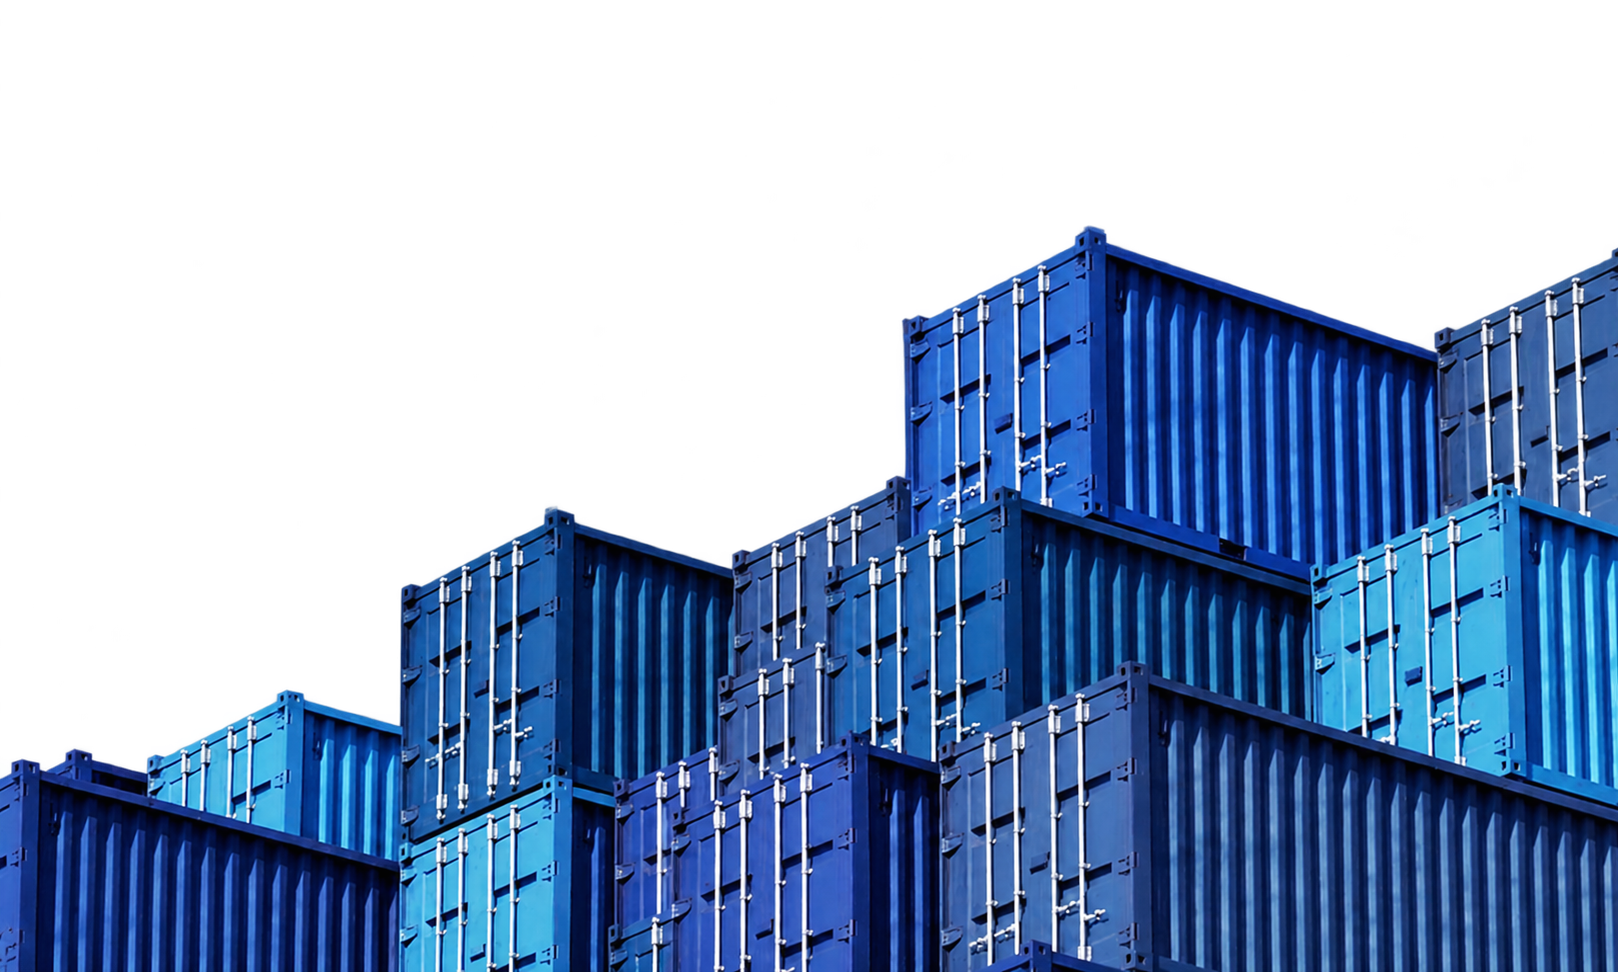
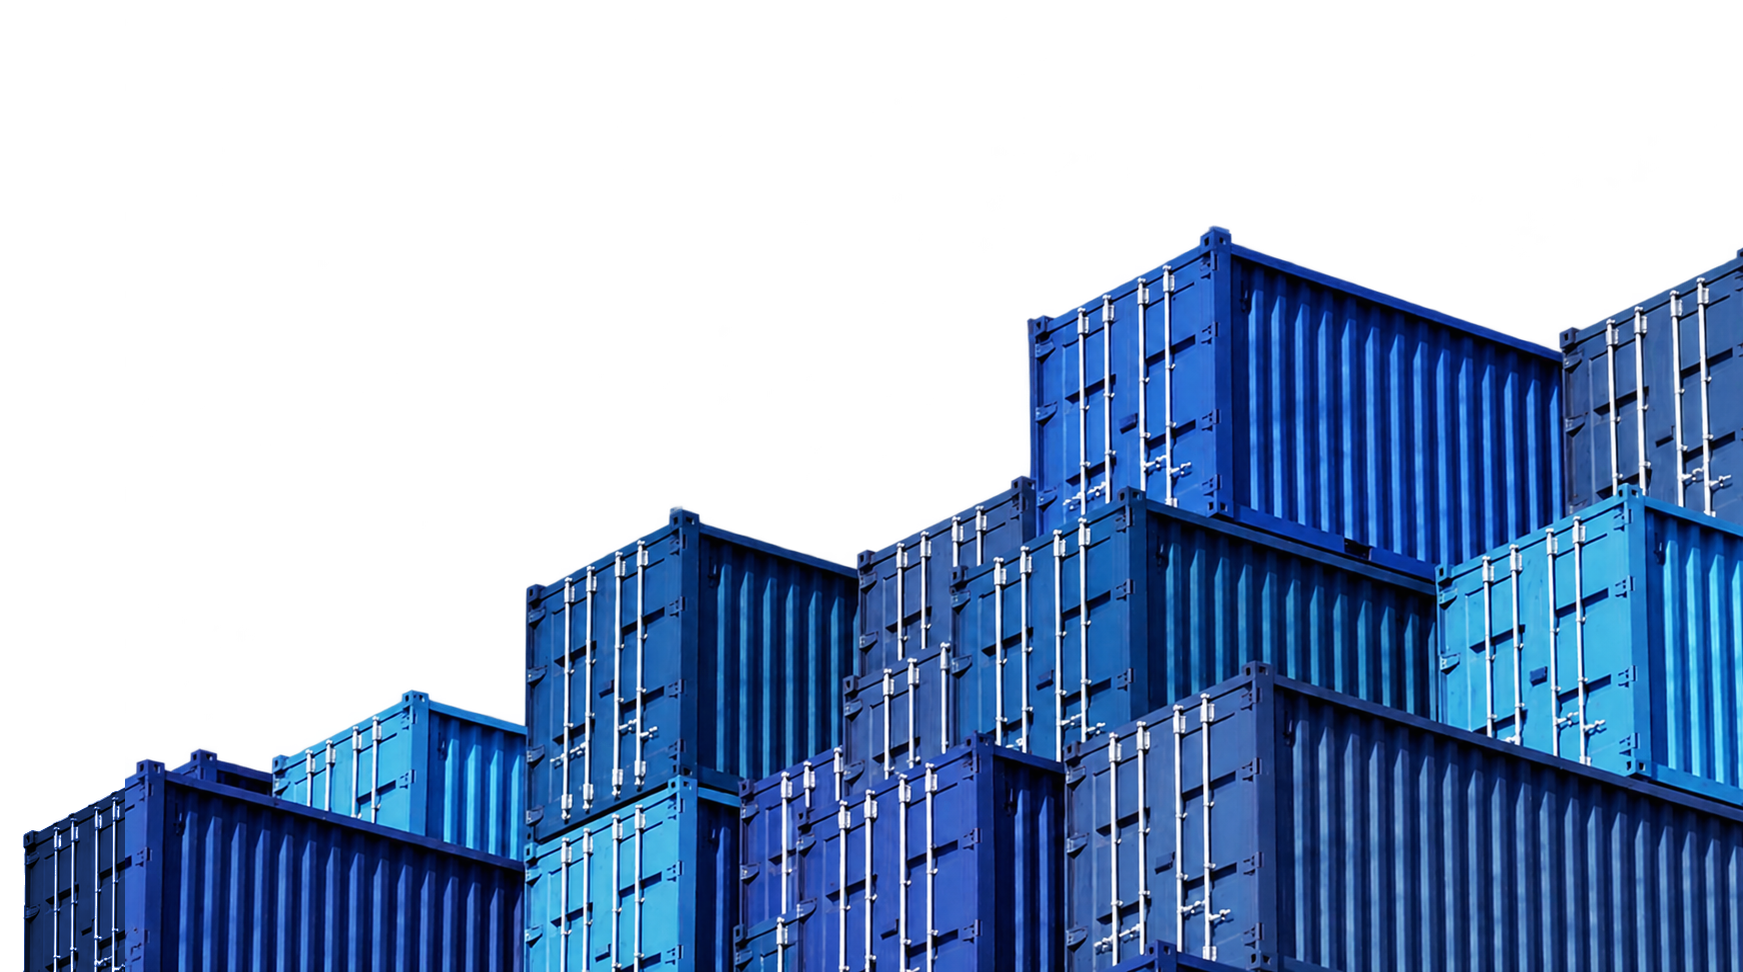
feat: restore full uncut container doors, increase container size, add section gap, and add scroll-linked container fadeout

diff --git a/index.html b/index.html
@@ -614,9 +614,10 @@
     min-height: auto !important;
   }
 
-  /* Prevent .home-intro from pulling up and overlapping hero */
+  /* Prevent .home-intro from pulling up and overlapping hero; add clean space */
   .home-intro-wrap {
-    margin-top: 0 !important;
+    margin-top: 5rem !important;
+    padding-top: 2rem !important;
     position: relative !important;
     z-index: 10 !important;
     pointer-events: auto !important;
@@ -2703,16 +2704,18 @@
     position: absolute !important;
     right: 0 !important;
     bottom: 0 !important;
-    width: 58vw !important;
-    max-width: 1150px !important;
+    width: 63vw !important;
+    max-width: 1260px !important;
     min-width: 480px !important;
-    aspect-ratio: 1618 / 972 !important;
+    aspect-ratio: 1743 / 972 !important;
     z-index: 4 !important;
     pointer-events: auto !important;
     display: flex !important;
     align-items: flex-end !important;
     justify-content: flex-end !important;
     overflow: visible !important;
+    transition: opacity 0.15s ease-out !important;
+    will-change: opacity !important;
   }
 
   .hero-containers-canvas {
@@ -2738,7 +2741,7 @@
     .hero-containers-interactive-wrap {
       position: relative !important;
       width: 100% !important;
-      max-width: 650px !important;
+      max-width: 720px !important;
       margin: 3rem auto 0 !important;
       right: auto !important;
       bottom: auto !important;
@@ -3286,6 +3289,21 @@
         });
       }, { threshold: 0.05 });
       observer.observe(canvas);
+
+      // Scroll-linked smooth fadeout as user scrolls down towards next section
+      function updateContainersScrollFade() {
+        const scrollY = window.pageYOffset || document.documentElement.scrollTop || 0;
+        const fadeStart = 40;
+        const fadeEnd = Math.max(380, window.innerHeight * 0.48);
+        let opacity = 1.0;
+        if (scrollY > fadeStart) {
+          opacity = Math.max(0.0, 1.0 - (scrollY - fadeStart) / (fadeEnd - fadeStart));
+        }
+        wrap.style.opacity = opacity.toFixed(3);
+        wrap.style.pointerEvents = opacity > 0.05 ? 'auto' : 'none';
+      }
+      window.addEventListener('scroll', updateContainersScrollFade, { passive: true });
+      updateContainersScrollFade();
 
       function render() {
         if (isVisible && texturesReady === 2) {
